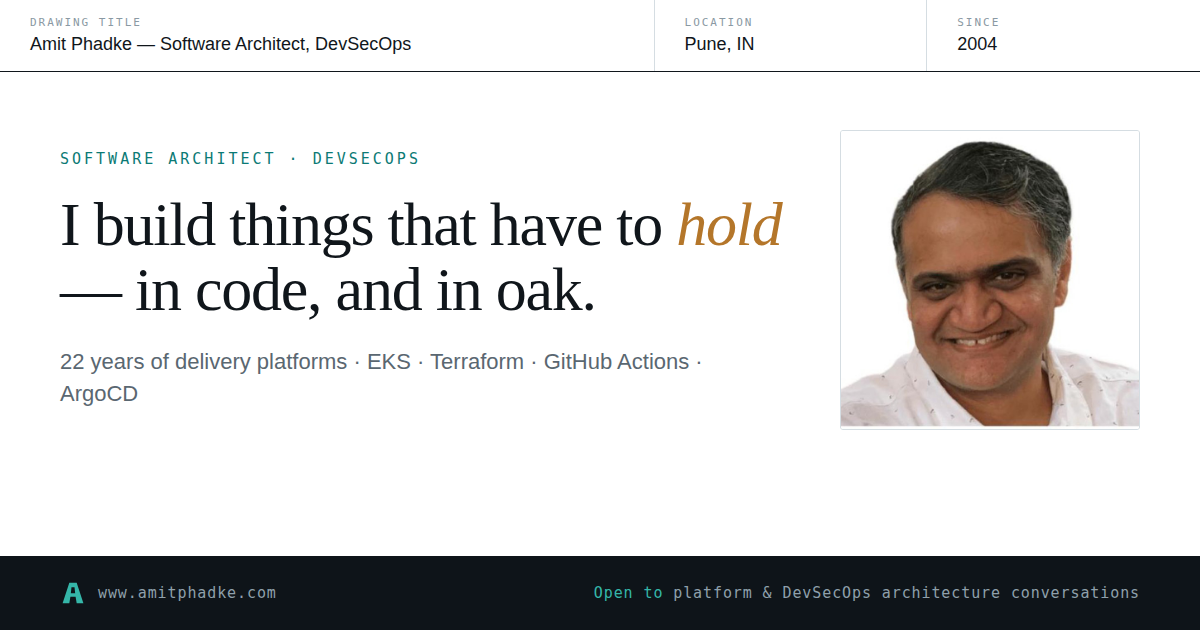
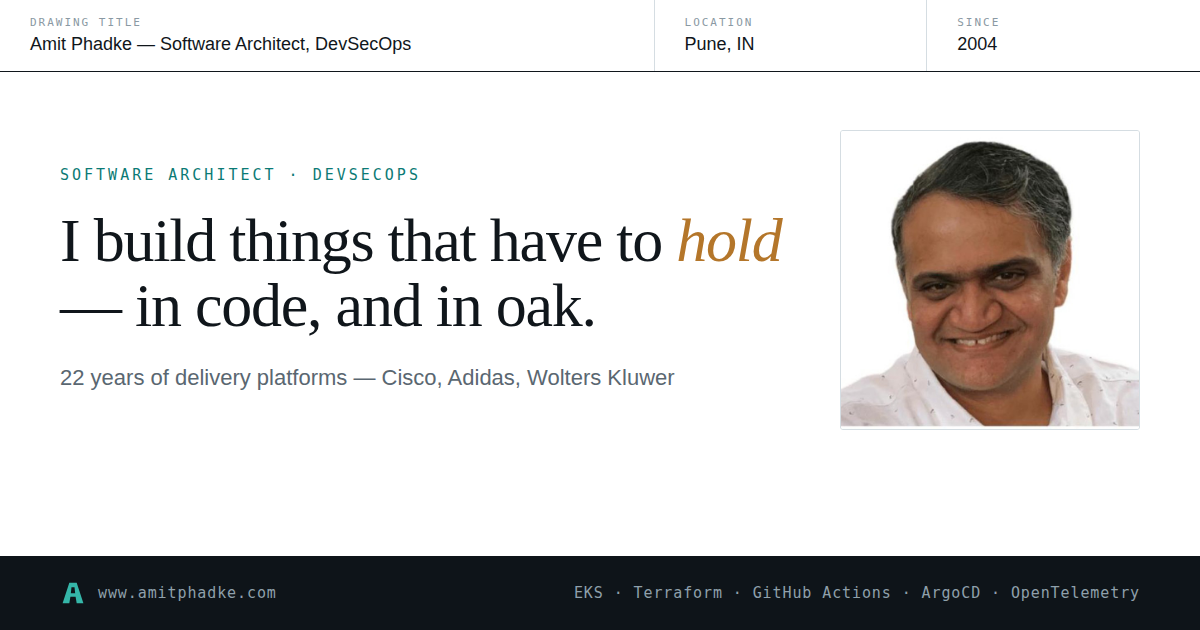
Drop the availability wording
Removes the "open to architecture conversations" signalling from the
hero facts row, the contact band and the social card. The contact
path itself stays: the band now just says email is the quickest way
to reach me, with the same three links.

The card's footer strip carries the stack instead.

Claude-Session: https://claude.ai/code/session_011w36Bbz3b7VQiHWRi1BR4m

Changed region(s): [[0.0308, 0.2413, 0.6783, 0.6635], [0.4625, 0.9349, 0.9558, 0.9651]]

diff --git a/index.md b/index.md
@@ -18,7 +18,6 @@ key: page-home
         <span><b>Now</b> — DevSecOps platform, UST</span>
         <span><b>Since</b> 2004</span>
         <span><b>Based</b> Pune, India</span>
-        <span><b>Open to</b> architecture conversations</span>
       </div>
     </div>
   </div>
@@ -139,8 +138,8 @@ key: page-home
 <div class="band band--dark">
   <div class="band__inner" style="padding-top:40px;padding-bottom:46px">
     <p class="seclabel">Get in touch</p>
-    <h2 style="font-family:var(--serif);font-weight:400;font-size:26px;margin:0 0 10px;letter-spacing:-.015em">Open to platform, DevSecOps and SRE architecture conversations.</h2>
-    <p style="margin:0;color:var(--dark-mute);max-width:56ch;font-size:15px">Whether that is a delivery platform that needs standardising, an observability gap nobody can close, or a second opinion on a design — I am happy to talk.</p>
+    <h2 style="font-family:var(--serif);font-weight:400;font-size:26px;margin:0 0 10px;letter-spacing:-.015em">Email is the quickest way to reach me.</h2>
+    <p style="margin:0;color:var(--dark-mute);max-width:56ch;font-size:15px">I am also on LinkedIn and GitHub.</p>
     <div class="cta">
       <a class="btn" href="mailto:amitphadke1001@gmail.com">Email me</a>
       <a class="btn btn--ghost" href="https://www.linkedin.com/in/amitrameshphadke/">LinkedIn</a>
